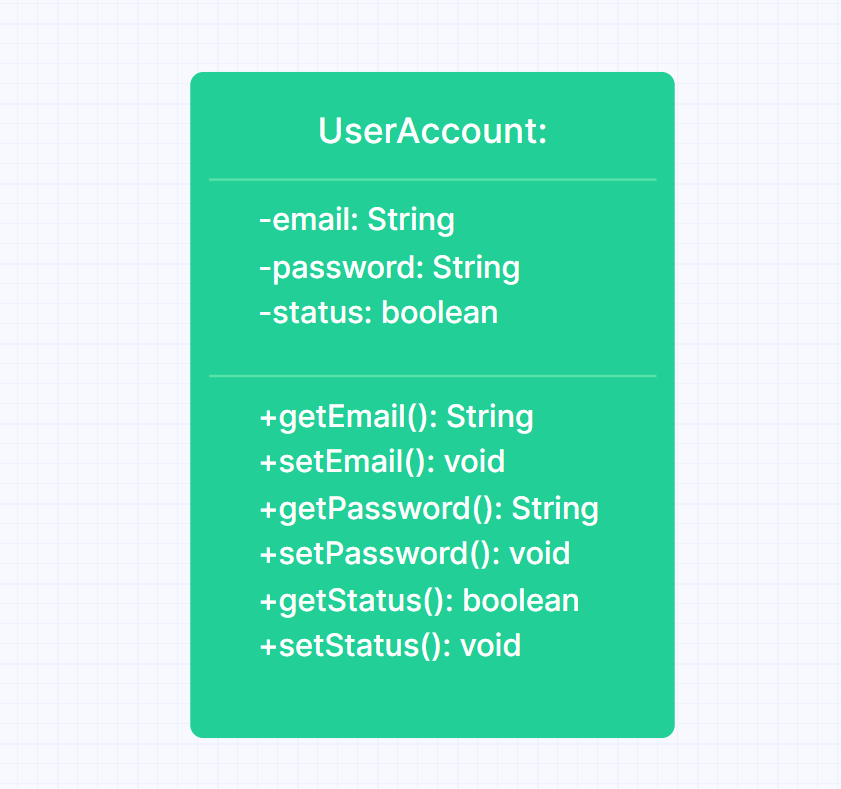
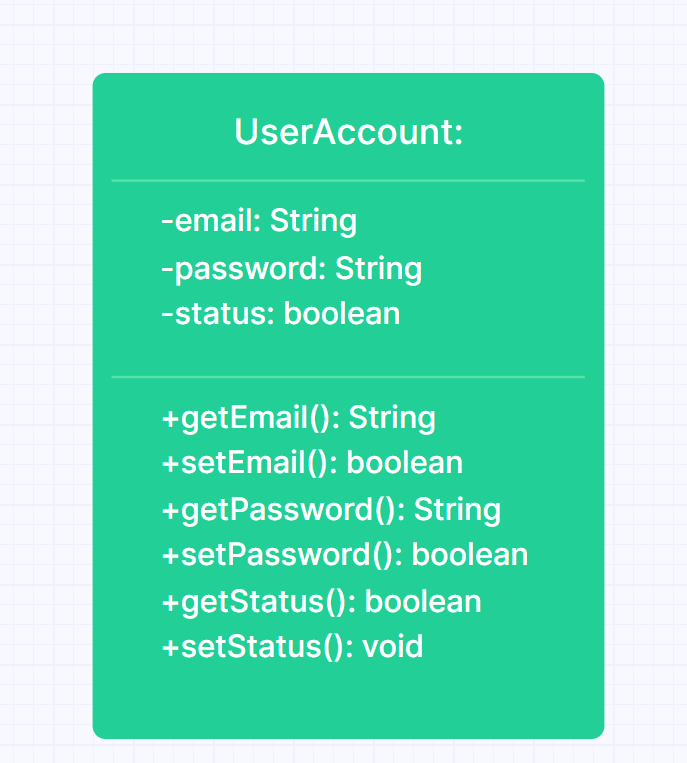
added tests and functionality for exercise 2

Changed region(s): [[0.1223, 0.0904, 0.8865, 0.9948]]

diff --git a/src/test/java/com/booleanuk/core/UserAccountTest.java b/src/test/java/com/booleanuk/core/UserAccountTest.java
@@ -1,0 +1,40 @@
+package com.booleanuk.core;
+
+import org.junit.jupiter.api.Assertions;
+import org.junit.jupiter.api.Test;
+
+import static org.junit.jupiter.api.Assertions.*;
+
+class UserAccountTest {
+
+    @Test
+    void testEmail() {
+        UserAccount userAccount = new UserAccount("vera@abv.bg", "12345678");
+        Assertions.assertEquals("vera@abv.bg", userAccount.getEmail());
+        Assertions.assertTrue(userAccount.setEmail("vera2@abv.bg"));
+        Assertions.assertEquals("vera2@abv.bg", userAccount.getEmail());
+        Assertions.assertFalse(userAccount.setEmail("vera.abv.bg"));
+        Assertions.assertEquals("vera2@abv.bg", userAccount.getEmail());
+    }
+
+
+    @Test
+    void testPassword() {
+        UserAccount userAccount = new UserAccount("vera@abv.bg", "12345678");
+        Assertions.assertEquals("12345678", userAccount.getPassword());
+        Assertions.assertTrue(userAccount.setPassword("123456789"));
+        Assertions.assertEquals("123456789", userAccount.getPassword());
+        Assertions.assertFalse(userAccount.setPassword("1234567"));
+        Assertions.assertEquals("123456789", userAccount.getPassword());
+    }
+
+
+    @Test
+    void testStatus() {
+        UserAccount userAccount = new UserAccount("vera@abv.bg", "12345678");
+        Assertions.assertFalse(userAccount.getStatus());
+        userAccount.setStatus(true);
+        Assertions.assertTrue(userAccount.getStatus());
+    }
+
+}

diff --git a/src/main/java/com/booleanuk/core/UserAccount.java b/src/main/java/com/booleanuk/core/UserAccount.java
@@ -1,0 +1,46 @@
+package com.booleanuk.core;
+
+public class UserAccount {
+    private String email;
+    private String password;
+    private boolean status;
+
+    public UserAccount(String email, String password) {
+        this.email = email;
+        this.password = password;
+        this.status = false;
+    }
+
+    public String getEmail() {
+        return email;
+    }
+
+    public boolean setEmail(String email) {
+        if (email.contains("@")) {
+            this.email = email;
+            return true;
+        }
+        return false;
+    }
+
+    public String getPassword() {
+        return password;
+    }
+
+    public boolean setPassword(String password) {
+        if (password.length()>=8) {
+            this.password = password;
+            return true;
+        }
+        return false;
+
+    }
+
+    public boolean getStatus() {
+        return status;
+    }
+
+    public void setStatus(boolean status) {
+        this.status = status;
+    }
+}
